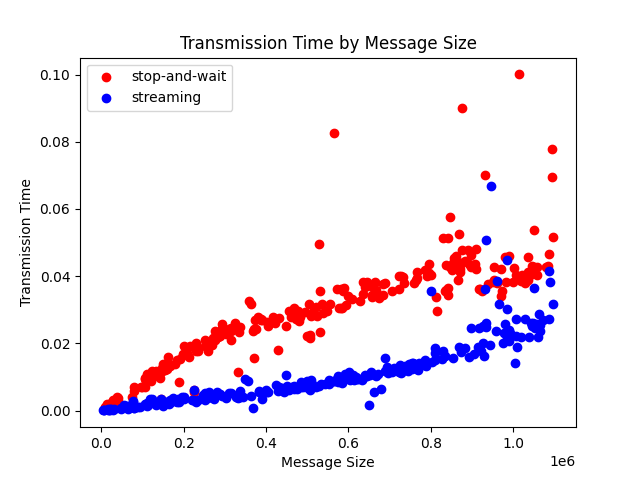
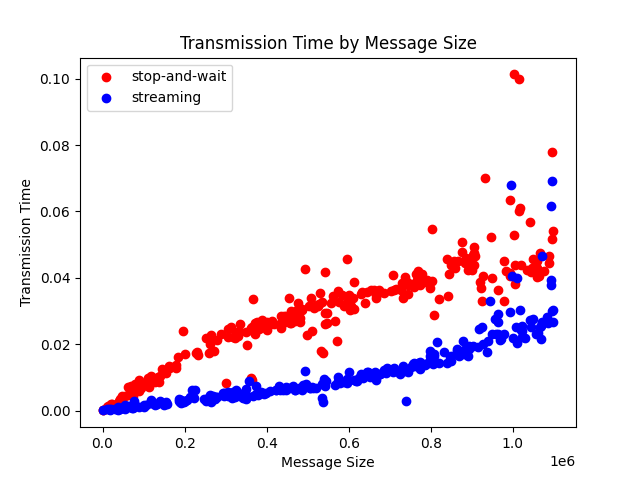
Reran tests

diff --git a/HW1/graphs.py b/HW1/graphs.py
@@ -22,14 +22,6 @@ if __name__ == '__main__':
     data = pd.read_csv("test_results.csv")
     data = data.sample(500)
 
-    # Create a bar chart of transmission time by mechanism used
-    plt.bar(data['Mechanism Used'], data['Transmission Time'])
-    plt.title('Transmission Time by Mechanism Used')
-    plt.xlabel('Mechanism Used')
-    plt.ylabel('Transmission Time (seconds)')
-    plt.savefig('Transmission Time by Mechanism Used')
-    plt.show()
-
     # Create a scatter plot of Transmission Time by Message Size, coloring the points differently based on the Mechanism Used
     colors = {'streaming': 'blue', 'stop-and-wait': 'red'}
     columnUsed = 'Mechanism Used'

diff --git a/HW1/README.md b/HW1/README.md
@@ -22,7 +22,6 @@ In terms of the options for the client/server, the program allows for the follow
 * The program implements both streaming and stop-and-wait mechanisms, with the latter performing an acknowledgement before sending the next message.
 
 
-![Transmission Time by Mechanism Used](Transmission Time by Mechanism Used.png)
 
 ![Transmission Time by Message Size and Mechanism Used](Transmission Time by Message Size_Mechanism Used.png)
 
